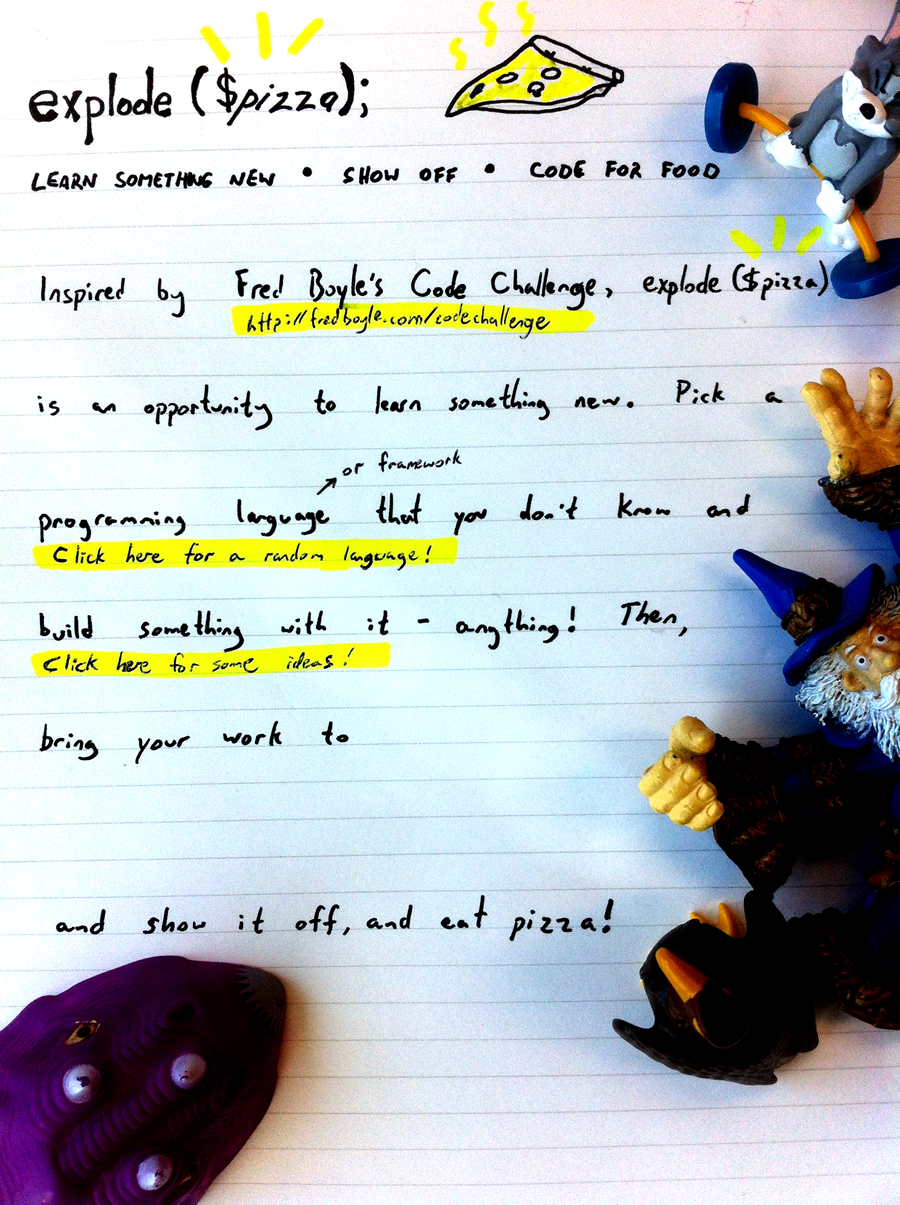
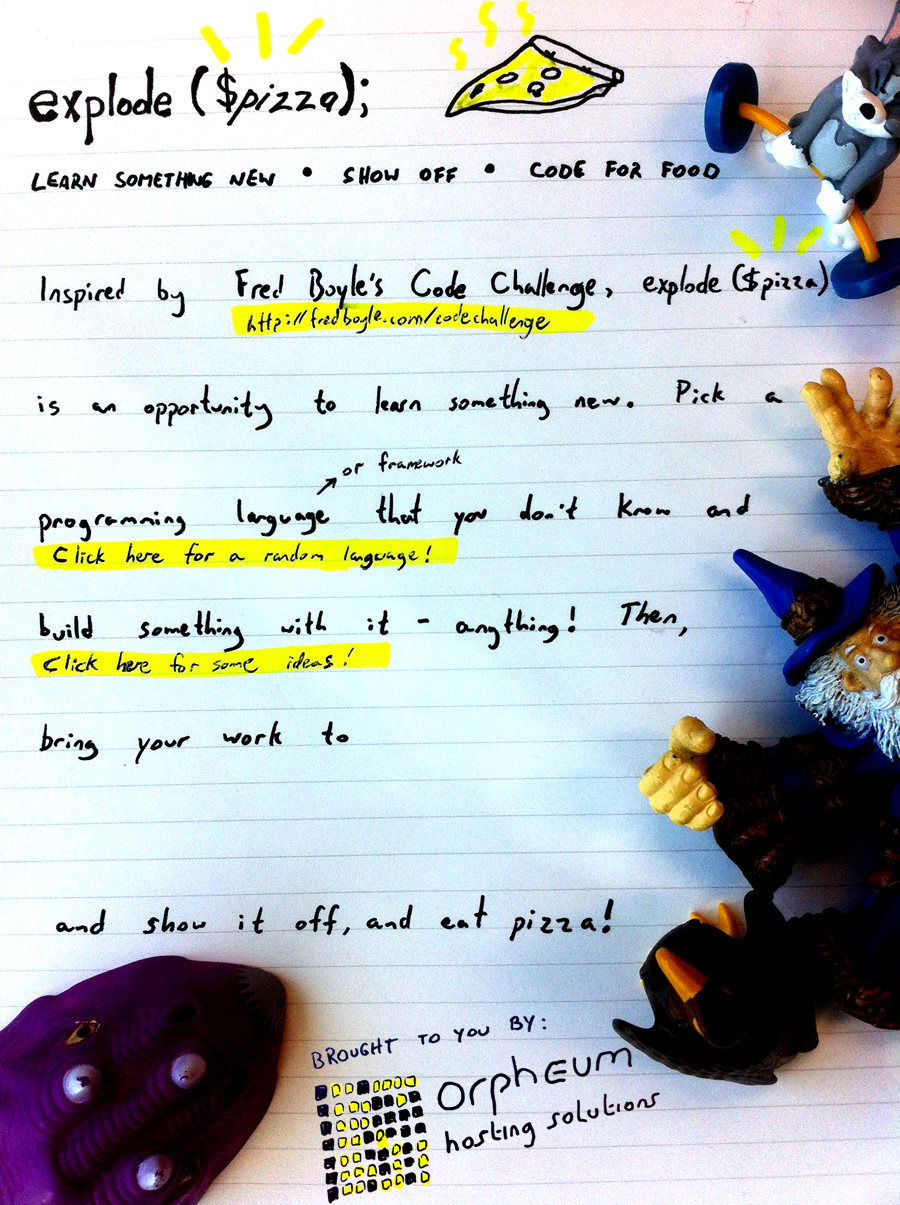
sponsor

Changed region(s): [[0.3422, 0.829, 0.7467, 1.0], [0.4978, 0.829, 0.5289, 0.8598]]

diff --git a/css/style.css b/css/style.css
@@ -229,6 +229,7 @@ body {
 	width: 900px;
 	margin: 0 auto;
 	height: 1205px;
+	margin-bottom: 50px;
 }
 a, span {
 	position: absolute;
@@ -305,21 +306,21 @@ span a {
 	background: #FEFE06;
 }
 #register {
-	top: 970px;
+	top: 955px;
 	left: 200px;
 	width: 500px;
 	text-align: center;
 	background: #FEFE06;
 }
 #sponsor {
-	top: 1100px;
-	left: 000px;
-	width: 600px;
+	top: 1020px;
+	left: 250px;
+	width: 400px;
+	height: 145px;
 	text-align: center;
-	background: #FEFE06;
-	font-size: 20px
+	font-size: 20px;
 }
-#register:hover, #sponsor:hover {
+#register:hover {
 	background: limegreen;
 }
 #ignited {

diff --git a/index.html b/index.html
@@ -43,7 +43,7 @@
 	<span id="location"><a target="_blank" href="http://unlondon.ca">The unlab</a>, on</span>
 	<span id="datetime">Friday May 11, 2012 at 7:00pm</span>
 	<a id="register" href="http://explodepizza.eventbrite.ca/">Click here to register for free!</a>
-	<a id="sponsor" href="http://twitter.com/gavinblair">p.s. If you want to sponsor this event, let me know!</a>
+	<a id="sponsor" href="http://orpheum.ca/" target="_blank"></a>
 	<a id="ignited" href="http://twitter.com/gavinblair">Ignited by @gavinblair</a>
   </div>
 
